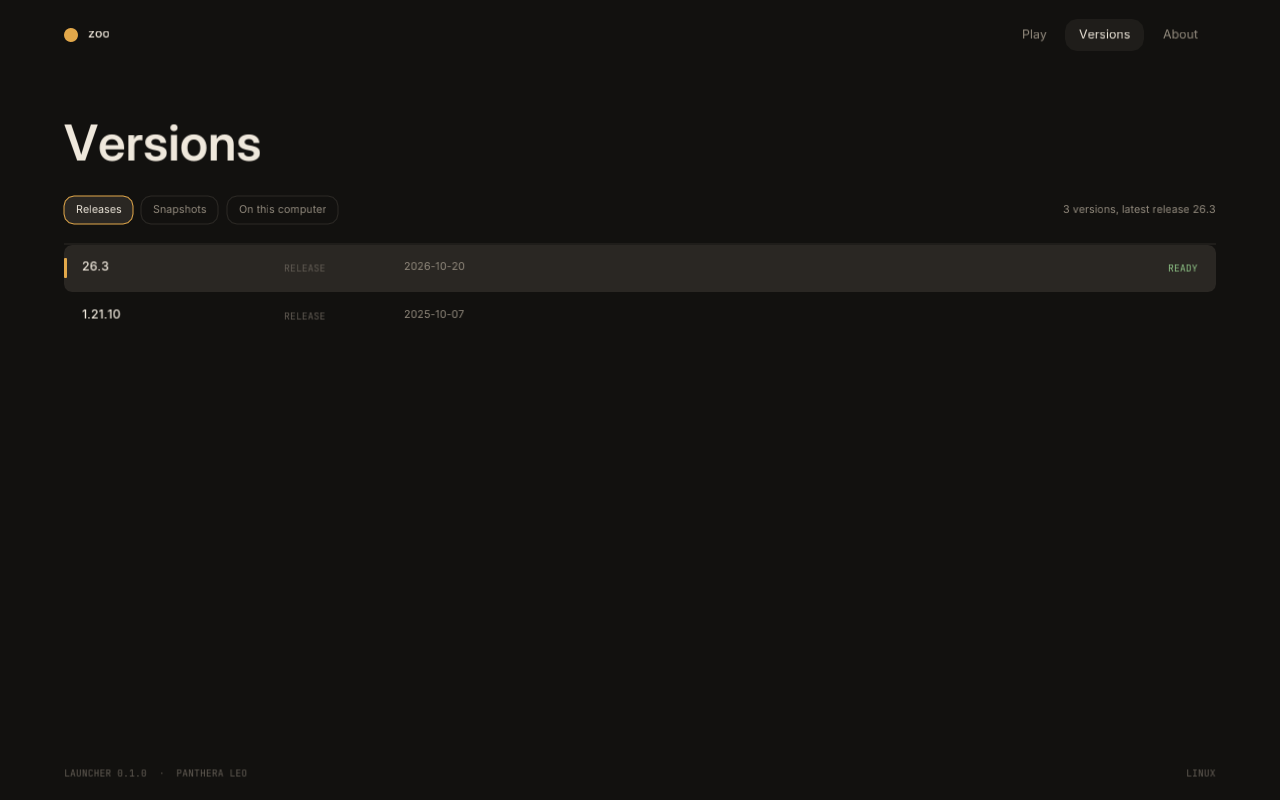
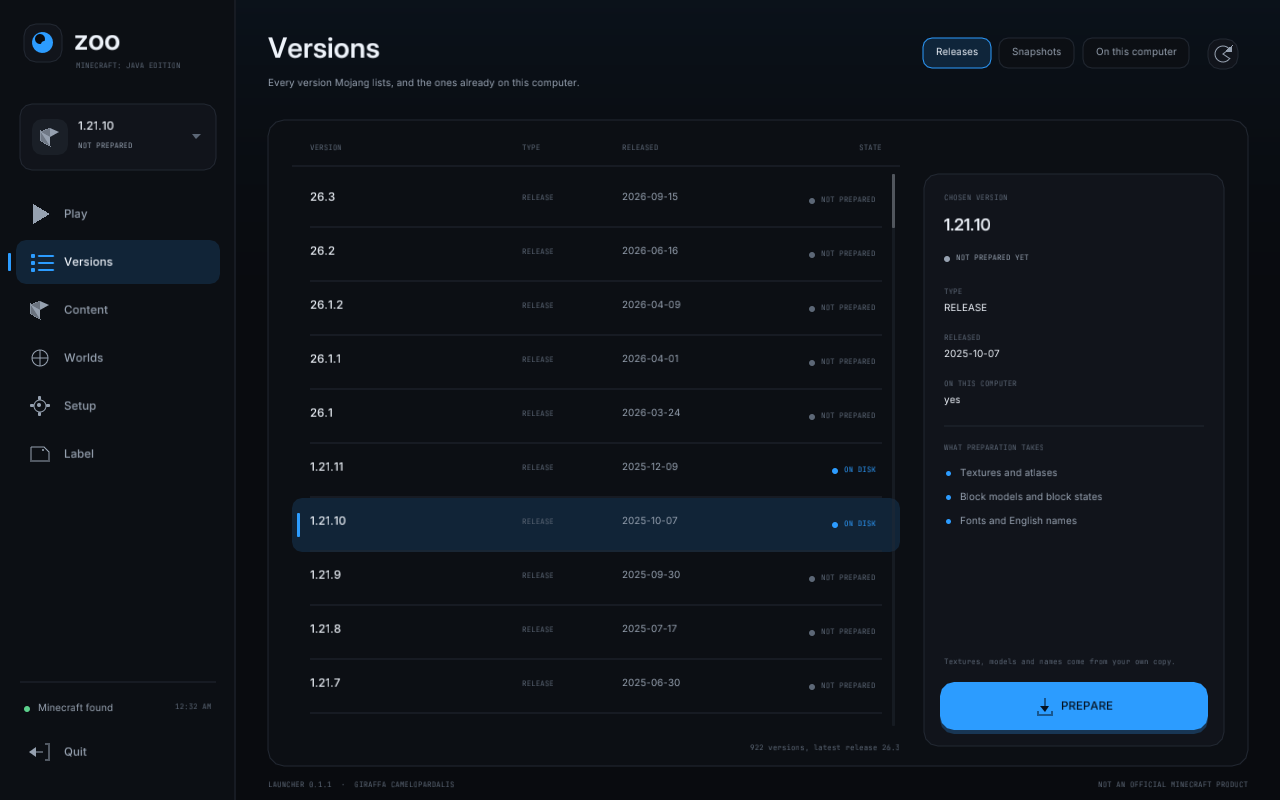
Refresh the launcher screenshots and design credits

diff --git a/THIRD_PARTY_NOTICES.md b/THIRD_PARTY_NOTICES.md
@@ -25,22 +25,26 @@ Minecraft product. Not approved by or associated with Mojang or Microsoft.
 
 The launcher's layout follows three published launcher concepts. zoo redraws
 everything in code, with its own colours, text and mark; no images, fonts or
-files from any of them are used.
+files from any of them are used. The Play page's picture is zoo's own client
+drawing a test world, not an asset from any design.
 
+- **Zenith client** in *Minecraft Java Edition Launcher* by voidmax, Figma
+  Community (https://www.figma.com/community/file/1622169498397413530),
+  licensed under CC BY 4.0
+  (https://creativecommons.org/licenses/by/4.0/). The frame comes from this
+  one: the sidebar of named pages with the chosen version at its head, the
+  hero picture with the title centred over it, the floating dock that holds
+  the version picker, the main action and two icon buttons, the small state
+  pill above the title, and the row of cards under the hero.
+- **HQLauncher**, a Figma community design
+  (https://www.figma.com/design/A1ON5O3moAjptWHjsvQeGW). Its near-black
+  panels, hairline table and settings rows, toolbar tabs above a list, small
+  type and accent-swatch row shaped the version list, the content list, Setup
+  and the themes card on Label.
 - **Gigacat prototype launcher** by ツMonkesha, Figma Community
   (https://www.figma.com/community/file/1593718159027974699), licensed under
-  CC BY 4.0 (https://creativecommons.org/licenses/by/4.0/). The frame comes
-  from this one: the rail of icons down the left, the top bar with its clock,
-  badge and bar, the wordmark over a lit ground, the pills under it, and the
-  row of cards along the foot. The "Amethyst" theme uses colours sampled from
-  it. The content, worlds, setup and label pages follow its mods, map,
-  settings and account pages.
-- **Minecraft Java Edition Launcher** by voidmax, Figma Community
-  (https://www.figma.com/community/file/1622169498397413530), licensed under
-  CC BY 4.0. The action bar that holds the version picker, the main button
-  and the icon buttons together on one panel is from this one, as is the
-  small state pill above the title.
-- **HQLauncher**, a Figma community design
-  (https://www.figma.com/design/A1ON5O3moAjptWHjsvQeGW). Its plainer table
-  rules for long lists and its swatch row for choosing an accent colour
-  shaped zoo's version list and theme picker.
+  CC BY 4.0 (https://creativecommons.org/licenses/by/4.0/). The "Amethyst"
+  colour scheme samples its palette, and the mapping of its account page onto
+  zoo's Label page — a profile card, a row of figures, a strip of saved
+  looks — is still its shape.
+

diff --git a/README.md b/README.md
@@ -31,8 +31,16 @@ This repository holds both. The launcher works today, and the client draws its f
 
 <table>
   <tr>
-    <td width="50%"><img src="docs/media/launcher.png" alt="The launcher's Play page: the chosen version, its state and Prepare"></td>
-    <td width="50%"><img src="docs/media/launcher-versions.png" alt="The launcher's Versions page: releases and snapshots with their state"></td>
+    <td width="50%"><img src="docs/media/launcher.png" alt="The Play page: zoo's own client render, the chosen version and the Prepare dock"><br><sub>Play: zoo's own render, the chosen version, and one dock that prepares it.</sub></td>
+    <td width="50%"><img src="docs/media/launcher-versions.png" alt="The Versions page: the Mojang catalogue as a table, with the chosen version beside it"><br><sub>Versions: the whole catalogue as a table, with the chosen version beside it.</sub></td>
+  </tr>
+  <tr>
+    <td width="50%"><img src="docs/media/launcher-worlds.png" alt="The Worlds page: one card per save, each with a scene drawn from its data"><br><sub>Worlds: each save as a card, with a small scene drawn from its data.</sub></td>
+    <td width="50%"><img src="docs/media/launcher-setup.png" alt="The Setup page: colour schemes, folders and the state of the collection"><br><sub>Setup: the colour schemes, the folders zoo uses, and where the last step got to.</sub></td>
+  </tr>
+  <tr>
+    <td width="50%"><img src="docs/media/launcher-content.png" alt="The Content page: mods, shaders and resource packs in one table"><br><sub>Content: mods, shaders and resource packs from your own Minecraft folder.</sub></td>
+    <td width="50%"><img src="docs/media/launcher-label.png" alt="The Label page: the specimen this build is catalogued under"><br><sub>Label: the specimen this build is catalogued under.</sub></td>
   </tr>
 </table>
 
